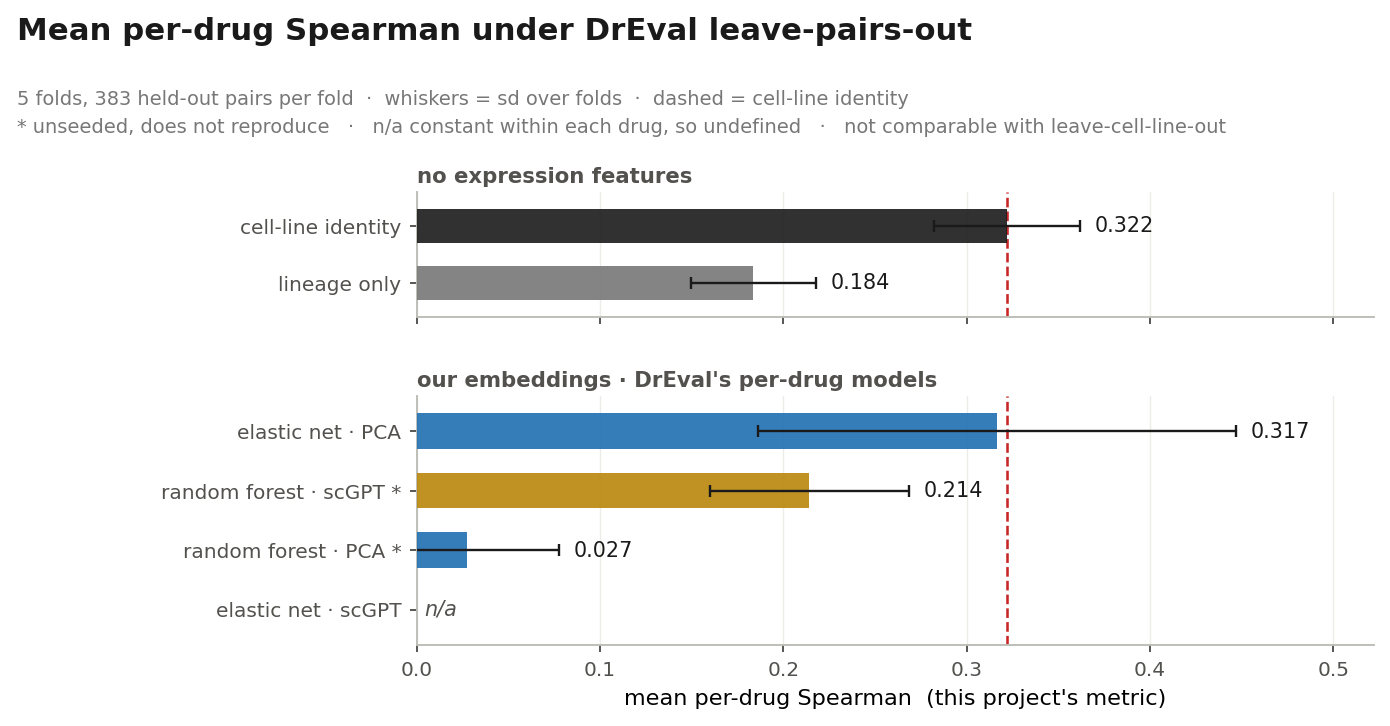
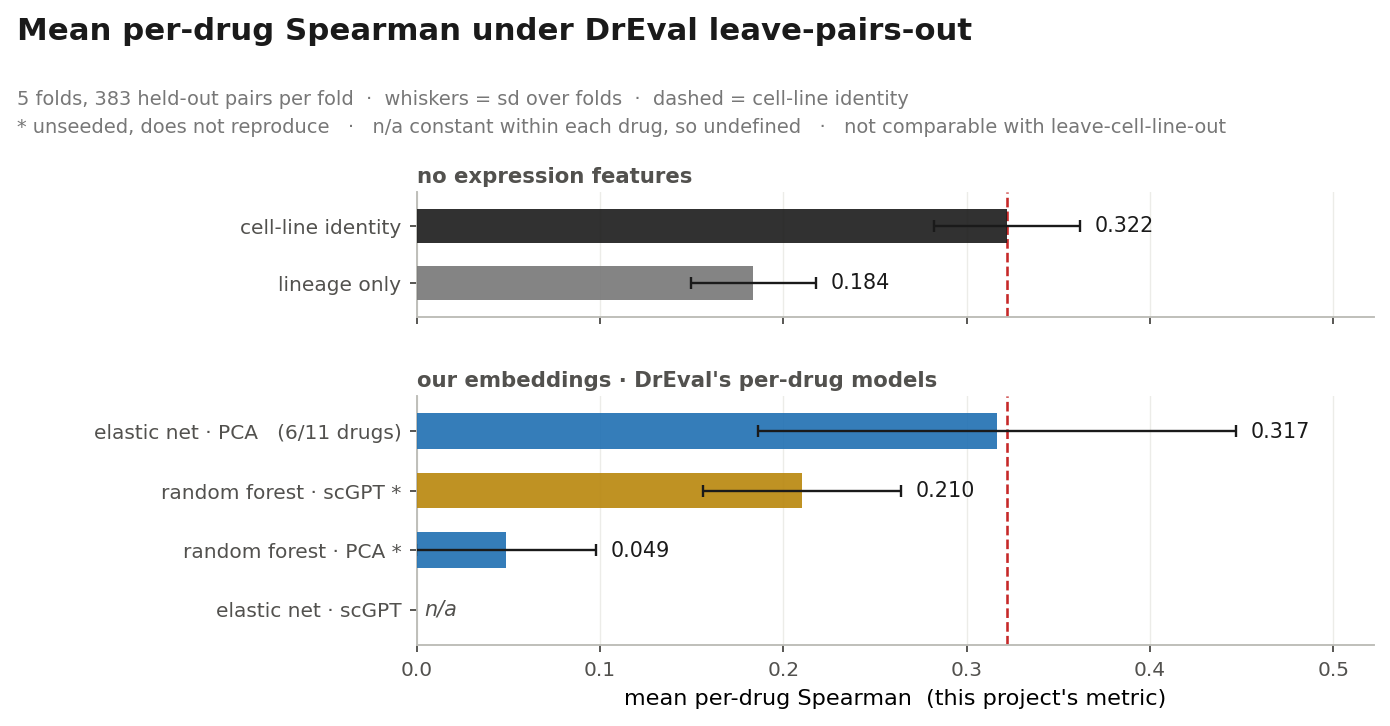
the elastic-net bar was not a like-for-like comparison — corrected
Selin: "why is elastic net not available for scGPT but for PCA? this invalidates
slide 16's plot". She was right, and the defect was larger than the asymmetry
she asked about.

WHY THE SCGPT BLANK. drevalpy's SingleDrugElasticNet is ElasticNet(alpha=1,
l1_ratio=0.2) with NO feature standardisation anywhere in the pipeline, and our
arms differ ~37x in feature scale (X_pca line-mean sd 1.388 vs X_scGPT 0.044).
At a fixed absolute penalty that decides the outcome: on X_pca it zeroes all 512
coefficients for 6 of 11 compounds and keeps 1-3 for the rest; on X_scGPT it
zeroes all 512 for all 11. The blank is a PENALTY-SCALE ARTIFACT, not a property
of the representation.

WORSE, AND THE PART SHE DID NOT ASK ABOUT. A drug with constant predictions is
skipped by the within-drug metric, so EN (pca)'s 0.3165 was a mean over 5.6 of
11 compounds -- the ones that survived the penalty -- printed beside bars
averaged over all eleven. The n_scored check added earlier verifies equal PAIRS
and could not catch this; equal DRUGS is a separate thing.

- per_drug_spearman_n() now returns (mean, n_drugs) and the run records
  n_drugs_scored per row. Every other scored algorithm reads 11.
- lpo_bias.png prints the denominator on the tick label whenever it is short of
  the panel: "elastic net · PCA  (6/11 drugs)".
- steps/05 corrected. The claim SURVIVES AND IMPROVES: dropping a bar that
  measured a different thing turns a claimed tie (0.3165 vs 0.3220) into a gap
[…]

diff --git a/docs/make_figures.py b/docs/make_figures.py
@@ -1780,6 +1780,84 @@ def build_panel_response():
     print(f"wrote {out}")
 
 
+def build_label_quality():
+    """Per-drug score against the share of that compound's dose-response curves that are flat.
+
+    **The claim this exists to carry.** The panel mean hides a ten-fold range across compounds, and
+    that range is a **label** property, not a biological one: a compound whose curves are mostly flat
+    has no ranking in its labels for any model to recover.
+
+    **What "flat" is.** CurveCurator tests each fitted curve against a no-effect null; ``pValue >
+    0.05`` means *"cannot reject: the compound did nothing at any dose"*. The area under such a curve
+    is still a number, and it is still used as a label -- it just summarises noise.
+
+    **Both axes on the same arm** (``X_pca``, mae, alpha=0.5 -- the leaderboard's best), because the
+    slide previously mixed a best-arm spread with a default-arm correlation. The correlation is
+    computed on what is drawn, so the annotation cannot drift from the points.
+
+    ⚠ **A trend over eleven points, not a law**, and the figure shows the exception rather than
+    hiding it: crizotinib has no flat curves and still sits mid-table. Reported as Spearman because
+    the relationship is monotone rather than linear, and because n=11 makes a fitted line a
+    stronger claim than the data supports -- so none is drawn.
+
+    The title names what is plotted. The reading is prose, per this file's own rule.
+    """
+    import pandas as pd
+    from scipy.stats import spearmanr
+
+    q = pd.read_csv(ROOT / "notebooks/outputs/diagnostics/label_quality_vs_performance.csv")
+    corr = pd.read_csv(PANEL_OUT / "panel_per_drug_correlation.csv")
+    arm = corr[(corr.loss == "mae") & (corr.alpha == 0.5) & (corr.rep == "X_pca")]
+    j = (q.set_index("drug")[["frac_ns"]]
+           .join(arm.groupby("drug")["spearman"].mean().rename("rho")).dropna())
+    if len(j) != len(_panel()):
+        raise SystemExit(f"{len(j)} compounds joined, expected {len(_panel())}")
+
+    names = _panel_display()
+    rho, pval = spearmanr(j.frac_ns, j.rho)
+    x = j.frac_ns * 100
+
+    fig, ax = plt.subplots(figsize=(8.2, 4.6))
+    fig.subplots_adjust(top=0.80, left=0.10, right=0.97, bottom=0.14)
+    fig.suptitle("Per-compound score against the share of its curves that are flat",
+                 x=0.02, ha="left", fontsize=13, fontweight="bold", color=INK, y=1.0)
+    fig.text(0.02, 0.90,
+             f"one point per panel compound ({len(j)})  ·  score = mean per-drug Spearman, "
+             "out of fold  ·  flat = the fitted dose-response cannot be\ndistinguished from "
+             "no effect (p > 0.05)  ·  log x-axis: the compounds span 0 % to 73 %",
+             ha="left", va="top", fontsize=8.4, color=GREY, linespacing=1.6)
+
+    ax.scatter(np.clip(x, 0.35, None), j.rho, s=46, color=BLUE, alpha=0.85, zorder=3,
+               edgecolor="white", linewidth=0.8)
+    # Hand offsets only where the automatic one collides -- sorafenib and gemcitabine sit within
+    # 0.03 of each other on both axes, and etoposide's label runs into sorafenib's.
+    NUDGE = {"gemcitabine": (-34, -3), "sorafenib": (0, 9), "etoposide": (-18, -13),
+             "imatinib": (20, 2)}
+    for d, xi, yi in zip(j.index, np.clip(x, 0.35, None), j.rho):
+        big = d in ("platin", "dasatinib", "crizotinib")
+        ax.annotate(names[d], (xi, yi), xytext=NUDGE.get(d, (0, 9 if big else 7)),
+                    textcoords="offset points",
+                    ha="center", fontsize=8.4 if big else 7.6,
+                    color=INK if big else MUTED, fontweight="bold" if big else "normal")
+
+    ax.set_xscale("log")
+    ax.set_xticks([0.35, 1, 2, 5, 10, 25, 73])
+    ax.set_xticklabels(["0", "1", "2", "5", "10", "25", "73"])
+    ax.set_xlabel("share of that compound's curves that are flat  (%, log scale)", fontsize=9.5)
+    ax.set_ylabel("mean per-drug Spearman", fontsize=9.5)
+    ax.set_ylim(-0.02, 0.60)
+    # Read from the points that are drawn, so the annotation cannot disagree with the figure.
+    ax.text(0.97, 0.95, f"Spearman  ρ = {rho:+.2f}   p = {pval:.3f}   n = {len(j)}",
+            transform=ax.transAxes, ha="right", va="top", fontsize=9, color=INK)
+    _tidy(ax, grid="both")
+    ax.tick_params(labelsize=8.5)
+
+    out = FIG / "label_quality.png"
+    fig.savefig(out, dpi=170, bbox_inches="tight", facecolor="white")
+    plt.close(fig)
+    print(f"wrote {out}")
+
+
 def build_lpo_bias():
     """Where the within-drug ranking comes from: lineage, cell-line identity, or the embeddings.
 
@@ -1830,7 +1908,9 @@ def build_lpo_bias():
     d = pd.read_csv(src)
     g = d.groupby("algorithm").agg(m=("per_drug_Spearman", "mean"),
                                    s=("per_drug_Spearman", "std"),
-                                   n=("n_scored", "sum"))
+                                   n=("n_scored", "sum"),
+                                   k=("n_drugs_scored", "mean"))
+    n_panel = int(d["n_drugs_scored"].max())
 
     # Every bar is scored on the same pairs, or the comparison is not one. Checked rather than
     # assumed: the per-drug models are scored only where prediction succeeded, so this could
@@ -1888,9 +1968,17 @@ def build_lpo_bias():
             ax.text(m + s + 0.008, y, f"{m:.3f}", va="center", fontsize=8.8, color=INK, zorder=4)
         ax.axvline(ref, color=RED, lw=1.1, ls="--", zorder=2)
         ax.set_yticks(range(len(rows)))
-        ax.set_yticklabels([f"{b[1]} *" if b[4] else
-                            (f"{b[1]}" if not pd.isna(g.loc[b[0], "m"]) else b[1])
-                            for b in rows][::-1], fontsize=9)
+        # The denominator rides on the tick label whenever a model was scored on fewer than the
+        # full panel. Without it a bar averaged over half the compounds sits beside bars averaged
+        # over all of them and reads as comparable -- which is exactly how EN (pca) was misread.
+        labs = []
+        for b in rows:
+            lab = b[1] + (" *" if b[4] else "")
+            n_drug = g.loc[b[0], "k"]
+            if not pd.isna(g.loc[b[0], "m"]) and round(n_drug) < n_panel:
+                lab += f"   ({n_drug:.0f}/{n_panel} drugs)"
+            labs.append(lab)
+        ax.set_yticklabels(labs[::-1], fontsize=9)
         ax.set_title(PANEL_TITLE[k], loc="left", fontsize=9, color=MUTED, fontweight="bold", pad=4)
         ax.set_xlim(0, xmax)
         ax.set_ylim(-0.6, len(rows) - 0.4)
@@ -1918,4 +2006,5 @@ if __name__ == "__main__":
     build_loss_effect()
     build_q2_instrument()
     build_panel_response()
+    build_label_quality()
     build_lpo_bias()

diff --git a/scripts/evaluation/dreval_lpo.py b/scripts/evaluation/dreval_lpo.py
@@ -80,6 +80,30 @@ SINGLE_DRUG = [("SingleDrugElasticNet", "pca"), ("SingleDrugRandomForest", "pca"
                ("SingleDrugElasticNet", "scgpt"), ("SingleDrugRandomForest", "scgpt")]
 
 
+def per_drug_spearman_n(y_true, y_pred, drug_ids) -> tuple[float, int]:
+    """``(mean within-drug Spearman, how many drugs it averaged over)``.
+
+    **The count is not decoration, and this function is why (found 16.08.2026, Selin: "why is
+    elastic net not available for scGPT but for PCA? this invalidates slide 16's plot").** A drug
+    whose predictions are constant has no within-drug rank correlation, so it is skipped -- and a
+    model can be constant on *some* drugs and not others. ``SingleDrugElasticNet`` at drevalpy's
+    default ``alpha=1``, unstandardised, is exactly that: on ``X_pca`` line-means it zeroes every
+    coefficient for **6 of 11** compounds and keeps 1-3 for the rest; on ``X_scGPT``, whose features
+    are ~37x smaller in scale, it zeroes all 512 for **all 11**.
+
+    Without this count the two are a bar at 0.3165 and a blank -- which reads as a representation
+    difference. It is a **penalty-scale** difference, and the surviving bar is a mean over a
+    self-selected subset of compounds. Any figure comparing these means must state the denominator.
+    """
+    from scipy.stats import spearmanr
+    out = []
+    for d in np.unique(drug_ids):
+        m = drug_ids == d
+        if np.unique(y_true[m]).size > 2 and np.unique(y_pred[m]).size > 1:
+            out.append(spearmanr(y_true[m], y_pred[m]).statistic)
+    return (float(np.nanmean(out)) if out else float("nan")), len(out)
+
+
 def per_drug_spearman(y_true, y_pred, drug_ids) -> float:
     """Mean Spearman **within each drug**, across the held-out lines — *this project's* metric.
 
@@ -163,8 +187,9 @@ def main() -> None:
         # per-drug models are scored only where prediction succeeded (the ``ok`` mask below), so
         # without this column a comparison between the two groups cannot be checked for being
         # like-for-like. Added 14.08.2026 before the LPO ordering was quoted anywhere.
+        pd_rho, pd_n = per_drug_spearman_n(te.response, pred, te.drug_ids)
         rows.append({"algorithm": name, "fold": i, "n_scored": int(len(pred)), **met,
-                     "per_drug_Spearman": per_drug_spearman(te.response, pred, te.drug_ids)})
+                     "per_drug_Spearman": pd_rho, "n_drugs_scored": pd_n})
 
     for name in MODELS:
         if name not in MODEL_FACTORY:

diff --git a/docs/steps/05-multitask-results.md b/docs/steps/05-multitask-results.md
@@ -977,10 +977,10 @@ baseline becomes informative. Produced by `scripts/evaluation/dreval_lpo.py` →
 | `NaiveTissueMeanPredictor` | 0.0999 | 0.1835 |
 | `NaiveTissueDrugMeanPredictor` | 0.7356 | 0.1646 |
 | `NaiveMeanEffectsPredictor` | 0.7541 | 0.3220 |
-| `SingleDrugElasticNet` (pca) | 0.7688 | 0.3165 |
-| `SingleDrugElasticNet` (scgpt) | 0.7413 | — (shrank to the intercept) |
-| `SingleDrugRandomForest` (pca) ⚠ | 0.7469 | 0.0271 |
-| `SingleDrugRandomForest` (scgpt) ⚠ | 0.7773 | 0.2141 |
+| `SingleDrugElasticNet` (pca) ⚠ | 0.7688 | 0.3165 — **over 5.6 of 11 drugs only** |
+| `SingleDrugElasticNet` (scgpt) ⚠ | 0.7413 | — (all coefficients zeroed; **penalty-scale artifact**) |
+| `SingleDrugRandomForest` (pca) ⚠ | 0.7476 | 0.0488 |
+| `SingleDrugRandomForest` (scgpt) ⚠ | 0.7768 | 0.2101 |
 
 > ⚠ **The two random forests do not reproduce, and nothing else in this table moved** (found
 > 14.08.2026 on a re-run that added the `n_scored` column). `drevalpy`'s default hyperparameter set
@@ -1023,14 +1023,34 @@ one quantity; they are nested (a line's tissue is a function of the line) but th
 correlation, so the 57 % is a ratio of scores and does not partition anything. Say *"lineage alone
 recovers 57 % of what line identity recovers"*, not *"lineage explains 57 % of the bias"*.
 
-**No feature-using model clears the line-mean baseline.** The best of the four, `SingleDrugElasticNet`
-on PCA line-means, ties it at **0.3165 against 0.3220** — with **three times** the fold-to-fold spread
-(sd 0.1303 against 0.0397). The other three are below it, one collapsed entirely.
+**No feature-using model clears the line-mean baseline.** Of the models scored on **all eleven**
+compounds the best is `SingleDrugRandomForest` on scGPT line-means at **0.2101 against 0.3220** — a
+clear gap, not a tie.
 
-⚠ **What that does and does not say.** It is evidence about *these four models on this data at this
+> ⛔ **Corrected 16.08.2026 (Selin: *"why is elastic net not available for scGPT but for PCA? this
+> invalidates slide 16's plot"*). She was right, and the defect was larger than the asymmetry she
+> asked about.** This paragraph read: *"The best of the four, `SingleDrugElasticNet` on PCA
+> line-means, ties it at 0.3165 against 0.3220."* **That comparison was not like-for-like.**
+>
+> `drevalpy`'s `SingleDrugElasticNet` is `ElasticNet(alpha=1, l1_ratio=0.2)` with **no feature
+> standardisation anywhere in the pipeline**, and our two arms differ ~37× in feature scale
+> (`X_pca` line-mean sd 1.388 against `X_scGPT`'s 0.044). At a fixed absolute penalty that decides
+> the outcome: on `X_pca` it zeroes **all 512 coefficients for 6 of 11 compounds** and keeps 1–3 for
+> the rest; on `X_scGPT` it zeroes all 512 for **all 11**. The scGPT blank is therefore **a
+> penalty-scale artifact, not a property of the representation.**
+>
+> **And a drug with constant predictions is skipped by the within-drug metric**, so 0.3165 was a mean
+> over **5.6 of 11 compounds** — the ones that survived the penalty — sitting beside bars averaged
+> over all eleven. `n_drugs_scored` is now recorded per row and printed on the figure's tick labels;
+> every other scored algorithm reads 11.
+>
+> **The conclusion is unchanged and now cleaner:** dropping a bar that measured a different thing
+> turns a claimed *tie* into a **gap of 0.11**.
+
+⚠ **What that does and does not say.** It is evidence about *these models on this data at this
 scale*, not about our MLP, which has never been run under LPO — the open measurement recorded below.
-It also inherits the RF caveat above for two of the four. What it does support: under the protocol
-where the fragility channel is available to a baseline, nothing here has beaten it.
+It also inherits the RF caveat above. What it does support: under the protocol where the fragility
+channel is available to a baseline, nothing here has beaten it.
 
 **Corroborated without `drevalpy` and without any model.** Correlating each drug's truth against the
 line's mean over the *other ten* drugs — leave-one-drug-out, so no self-inclusion — gives mean
